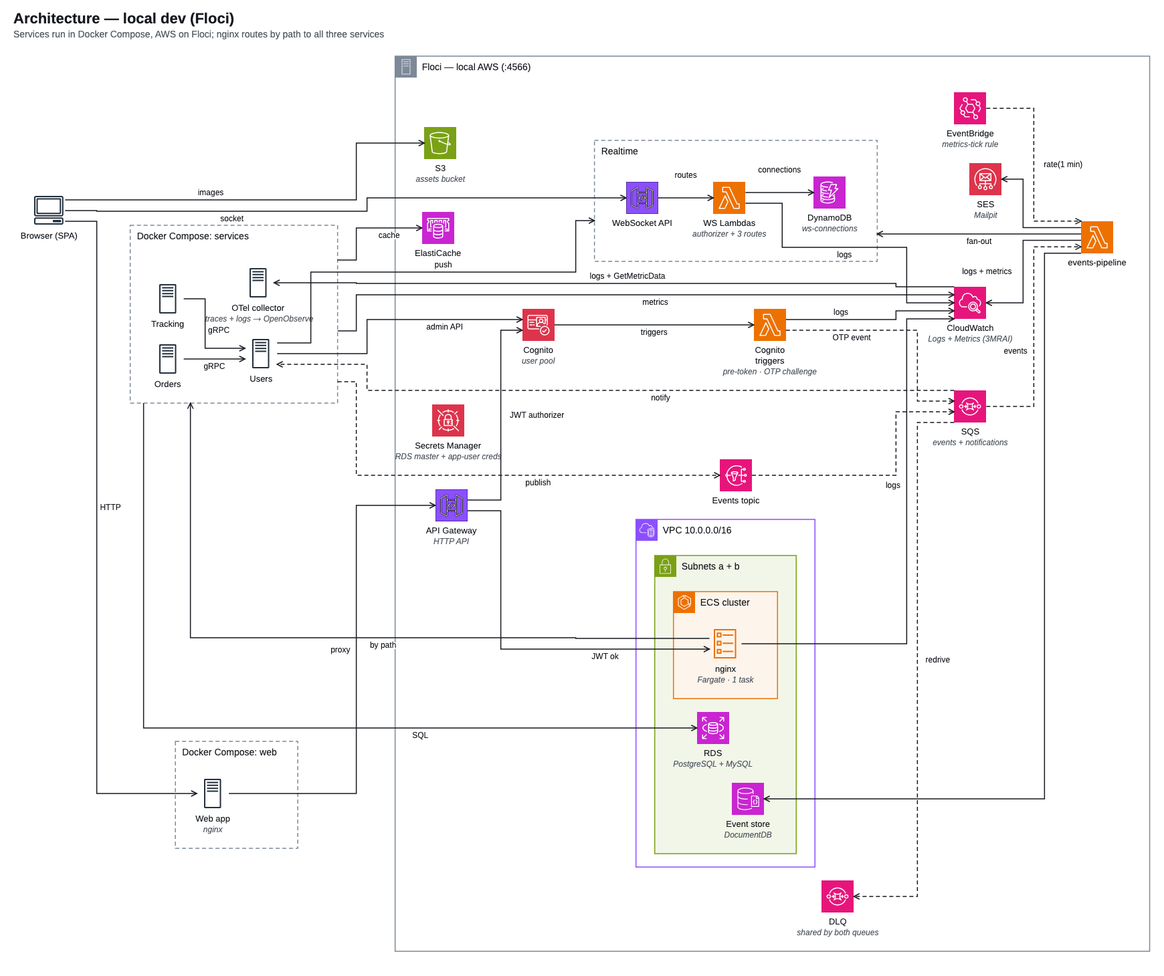
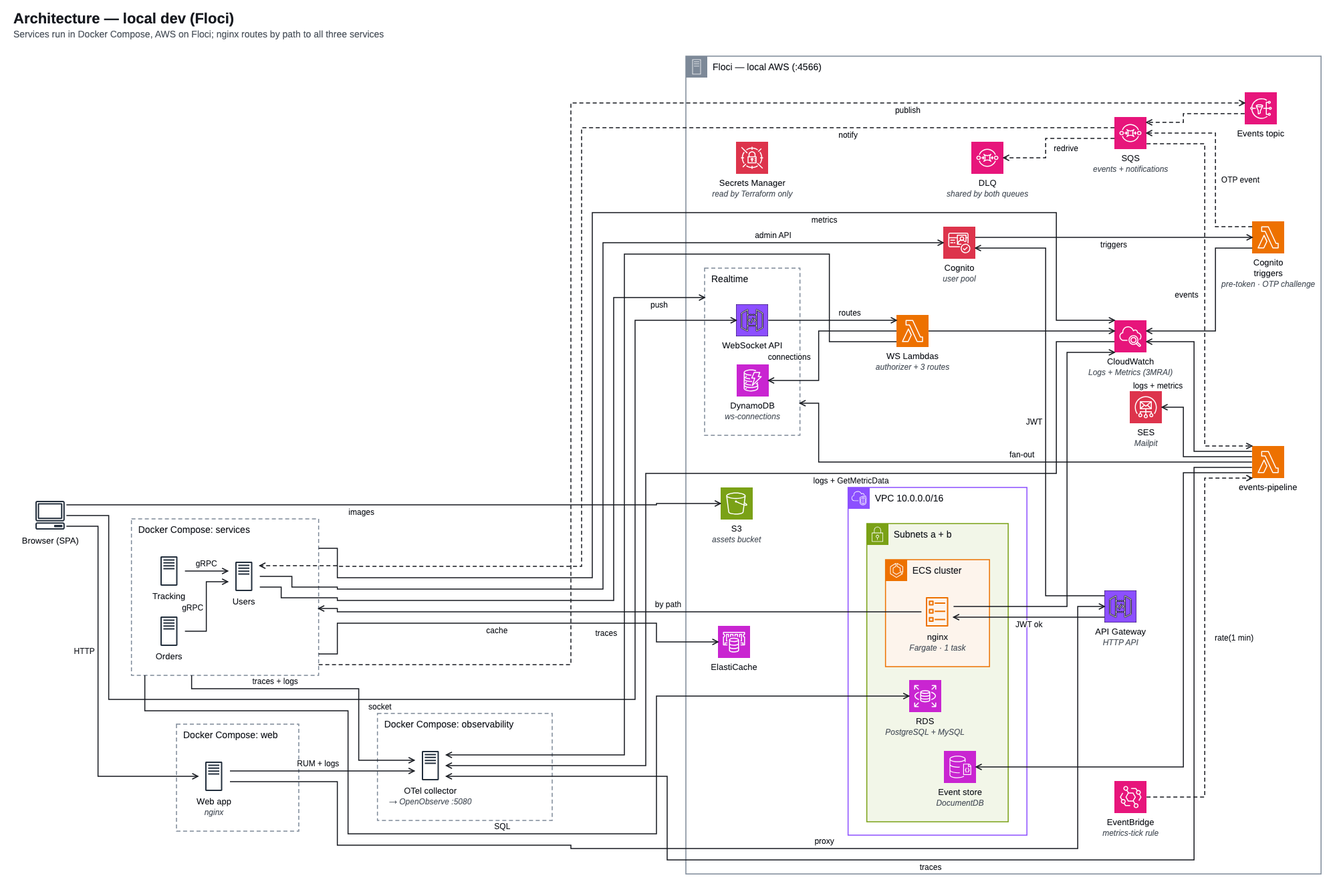
fix(diagrams): own observability group, Lambda and RUM trace edges, precise realtime targets

diff --git a/diagrams/src/data/system-context/l2.ts b/diagrams/src/data/system-context/l2.ts
@@ -22,79 +22,85 @@ export const systemContextL2: z.input<typeof AwsDiagramData> = {
     },
     { id: "cluster", kind: "ecs-cluster", label: "ECS cluster", parent: "vpc" },
     { id: "services", kind: "generic", label: "Services", parent: "cluster" },
+    { id: "realtime", kind: "generic", label: "Realtime", parent: "cloud" },
+    { id: "fns", kind: "generic", label: "Lambda functions", parent: "cloud" },
   ],
   nodes: [
     { id: "customer", label: "Customer", icon: "users" },
-    { id: "s3", label: "S3", sublabel: "assets bucket", icon: "s3", group: "cloud" },
-    { id: "ws", label: "WebSocket API", icon: "api-gateway", group: "cloud" },
     { id: "apigw", label: "API Gateway", sublabel: "HTTP API", icon: "api-gateway", group: "cloud" },
-    { id: "cognito", label: "Cognito", sublabel: "user pool", icon: "cognito", group: "cloud" },
-    { id: "cognito-fns", label: "Cognito triggers", sublabel: "pre-token + OTP", icon: "lambda", group: "cloud" },
-    { id: "ecr", label: "ECR", sublabel: "7 images", icon: "ecr", group: "cloud" },
-    { id: "config", label: "SSM + Secrets Manager", sublabel: "task config", icon: "ssm", group: "cloud" },
-    { id: "alb", label: "ALB", sublabel: "internal", icon: "alb", group: "vpc" },
-    { id: "web", label: "Web app", sublabel: "Angular", icon: "ecs-task", group: "cluster" },
-    { id: "otel", label: "otel-collector", sublabel: "telemetry", icon: "ecs-task", group: "cluster" },
-    { id: "o2", label: "OpenObserve", sublabel: "logs + traces", icon: "ecs-task", group: "cluster" },
-    { id: "mailpit", label: "Mailpit", sublabel: "SMTP sink", icon: "ecs-task", group: "cluster" },
-    { id: "orders", label: "Orders", sublabel: ".NET", icon: "ecs-task", group: "services" },
-    { id: "tracking", label: "Tracking", sublabel: "Go", icon: "ecs-task", group: "services" },
-    { id: "users", label: "Users", sublabel: "Node.js", icon: "ecs-task", group: "services" },
-    { id: "pg", label: "Users DB", sublabel: "RDS Postgres", icon: "rds", group: "vpc" },
-    { id: "mysql", label: "Orders + Tracking DB", sublabel: "RDS MySQL", icon: "rds", group: "vpc" },
-    { id: "docdb", label: "Event store", sublabel: "DocumentDB", icon: "documentdb", group: "vpc" },
-    { id: "redis", label: "ElastiCache", icon: "elasticache", group: "cloud" },
-    { id: "ws-fns", label: "WS Lambdas", sublabel: "4 functions", icon: "lambda", group: "cloud" },
-    { id: "dynamodb", label: "DynamoDB", sublabel: "ws-connections", icon: "dynamodb", group: "cloud" },
-    { id: "ses", label: "SES", icon: "ses", group: "cloud" },
+    { id: "dynamodb", label: "DynamoDB", sublabel: "ws-connections", icon: "dynamodb", group: "realtime" },
     { id: "dlq", label: "DLQ", sublabel: "both queues", icon: "sqs", group: "cloud" },
-    { id: "eb", label: "EventBridge", sublabel: "metrics tick", icon: "eventbridge", group: "cloud" },
+    { id: "web", label: "Web app", sublabel: "Angular", icon: "ecs-task", group: "cluster" },
     { id: "sns", label: "Events topic", icon: "sns", group: "cloud" },
+    { id: "o2", label: "OpenObserve", sublabel: "logs + traces", icon: "ecs-task", group: "cluster" },
+    { id: "ws", label: "WebSocket API", icon: "api-gateway", group: "realtime" },
+    { id: "cognito", label: "Cognito", sublabel: "user pool", icon: "cognito", group: "cloud" },
+    { id: "s3", label: "S3", sublabel: "assets bucket", icon: "s3", group: "cloud" },
+    { id: "orders", label: "Orders", sublabel: ".NET", icon: "ecs-task", group: "services" },
+    { id: "redis", label: "ElastiCache", icon: "elasticache", group: "cloud" },
+    { id: "tracking", label: "Tracking", sublabel: "Go", icon: "ecs-task", group: "services" },
+    { id: "docdb", label: "Event store", sublabel: "DocumentDB", icon: "documentdb", group: "vpc" },
     { id: "sqs", label: "SQS", sublabel: "events + notif", icon: "sqs", group: "cloud" },
+    { id: "alb", label: "ALB", sublabel: "internal", icon: "alb", group: "vpc" },
+    { id: "ws-fns", label: "WS Lambdas", sublabel: "4 functions", icon: "lambda", group: "fns" },
+    { id: "otel", label: "otel-collector", sublabel: "telemetry", icon: "ecs-task", group: "cluster" },
+    { id: "lambda", label: "events-pipeline", icon: "lambda", group: "fns" },
     { id: "cw", label: "CloudWatch", sublabel: "Logs + Metrics", icon: "cloudwatch", group: "cloud" },
-    { id: "lambda", label: "events-pipeline", icon: "lambda", group: "cloud" },
+    { id: "ses", label: "SES", icon: "ses", group: "cloud" },
+    { id: "cognito-fns", label: "Cognito triggers", sublabel: "pre-token + OTP", icon: "lambda", group: "fns" },
+    { id: "pg", label: "Users DB", sublabel: "RDS Postgres", icon: "rds", group: "vpc" },
+    { id: "config", label: "SSM + Secrets Manager", sublabel: "task config", icon: "ssm", group: "cloud" },
+    { id: "ecr", label: "ECR", sublabel: "7 images", icon: "ecr", group: "cloud" },
+    { id: "eb", label: "EventBridge", sublabel: "metrics tick", icon: "eventbridge", group: "cloud" },
+    { id: "mailpit", label: "Mailpit", sublabel: "SMTP sink", icon: "ecs-task", group: "cluster" },
+    { id: "users", label: "Users", sublabel: "Node.js", icon: "ecs-task", group: "services" },
+    { id: "mysql", label: "Orders + Tracking DB", sublabel: "RDS MySQL", icon: "rds", group: "vpc" },
   ],
   edges: [
-    { id: "customer-s3", from: "customer", to: "s3", label: "images" },
-    { id: "sqs-lambda", from: "sqs", to: "lambda", label: "events", async: true },
+    { id: "users-cognito", from: "users", to: "cognito", label: "admin API" },
     { id: "ws-fns-dynamodb", from: "ws-fns", to: "dynamodb", label: "connections" },
     { id: "users-pg", from: "users", to: "pg" },
-    { id: "fns-cw", from: "cognito-fns", to: "cw", label: "logs" },
+    // WHY: Terraform gives the Cognito triggers no log group and no logs permission (modules/cognito);
+    // their logs land only because Floci auto-creates log groups.
+    { id: "fns-cw", from: "fns", to: "cw", label: "logs + pipeline metrics" },
     { id: "customer-alb", from: "customer", to: "alb", label: "SPA" },
-    { id: "ws-fns", from: "ws", to: "ws-fns", label: "routes" },
     { id: "lambda-ses", from: "lambda", to: "ses" },
-    { id: "lambda-ws", from: "lambda", to: "ws", label: "fan-out" },
+    { id: "config-cluster", from: "config", to: "cluster", label: "task config" },
+    { id: "sqs-lambda", from: "sqs", to: "lambda", label: "events", async: true },
+    { id: "lambda-realtime", from: "lambda", to: "realtime", label: "fan-out" },
+    { id: "web-otel", from: "web", to: "otel", label: "RUM :4319" },
     { id: "tracking-users", from: "tracking", to: "users", label: "gRPC" },
-    { id: "services-otel", from: "services", to: "otel", label: "traces" },
-    { id: "ecr-cluster", from: "ecr", to: "cluster", label: "images" },
-    { id: "lambda-cw", from: "lambda", to: "cw", label: "logs + metrics" },
     { id: "orders-mysql", from: "orders", to: "mysql" },
-    { id: "lambda-docdb", from: "lambda", to: "docdb" },
     { id: "customer-ws", from: "customer", to: "ws", label: "socket" },
     { id: "otel-o2", from: "otel", to: "o2" },
-    { id: "services-redis", from: "services", to: "redis", label: "cache" },
-    { id: "ws-fns-cw", from: "ws-fns", to: "cw", label: "logs" },
-    { id: "users-ws", from: "users", to: "ws", label: "push" },
+    { id: "services-redis", from: "services", to: "redis" },
+    // WHY: realtime is exactly the WebSocket API and the connections table: Users and the pipeline query
+    // the table and post to @connections; neither invokes the WS Lambdas.
+    { id: "users-realtime", from: "users", to: "realtime", label: "push" },
     { id: "apigw-cognito", from: "apigw", to: "cognito", label: "JWT authorizer" },
-    { id: "users-dynamodb", from: "users", to: "dynamodb", label: "connections" },
     { id: "alb-cluster", from: "alb", to: "cluster", label: "listener per service" },
-    { id: "customer-apigw", from: "customer", to: "apigw", label: "/v1 via web" },
-    { id: "sqs-users", from: "sqs", to: "users", label: "notify", async: true },
     { id: "ses-mailpit", from: "ses", to: "mailpit", label: "SMTP" },
-    { id: "services-sns", from: "services", to: "sns", label: "publish", async: true },
-    { id: "config-cluster", from: "config", to: "cluster", label: "task config" },
-    { id: "apigw-alb", from: "apigw", to: "alb", label: "routes" },
-    { id: "eb-lambda", from: "eb", to: "lambda", label: "rate(1 min)", async: true },
-    { id: "users-cognito", from: "users", to: "cognito", label: "admin API" },
-    { id: "sqs-dlq", from: "sqs", to: "dlq", label: "redrive", async: true },
+    { id: "services-sns", from: "services", to: "sns", async: true },
+    { id: "lambda-docdb", from: "lambda", to: "docdb" },
+    { id: "ws-fns-otel", from: "ws-fns", to: "otel", label: "traces" },
     { id: "sns-sqs", from: "sns", to: "sqs", async: true },
     // WHY: every container logs through the awslogs driver; the services also PutMetricData.
     { id: "cluster-cw", from: "cluster", to: "cw", label: "logs + metrics" },
+    { id: "customer-s3", from: "customer", to: "s3", label: "images" },
+    { id: "apigw-alb", from: "apigw", to: "alb", label: "routes" },
+    { id: "ws-fns", from: "ws", to: "ws-fns", label: "routes" },
+    { id: "lambda-otel", from: "lambda", to: "otel", label: "traces" },
     { id: "cognito-fns", from: "cognito", to: "cognito-fns", label: "triggers" },
+    { id: "sqs-dlq", from: "sqs", to: "dlq", label: "redrive", async: true },
     { id: "fns-sqs", from: "cognito-fns", to: "sqs", label: "OTP event", async: true },
+    { id: "sqs-users", from: "sqs", to: "users", label: "notify", async: true },
     { id: "tracking-mysql", from: "tracking", to: "mysql" },
     { id: "cw-otel", from: "cw", to: "otel", label: "logs + GetMetricData" },
+    { id: "eb-lambda", from: "eb", to: "lambda", label: "rate(1 min)", async: true },
+    { id: "services-otel", from: "services", to: "otel", label: "traces" },
+    { id: "customer-apigw", from: "customer", to: "apigw", label: "/v1 via web" },
     { id: "orders-users", from: "orders", to: "users", label: "gRPC" },
+    { id: "ecr-cluster", from: "ecr", to: "cluster", label: "images" },
   ],
   steps: [],
 };

diff --git a/diagrams/src/data/architecture/dev-floci.ts b/diagrams/src/data/architecture/dev-floci.ts
@@ -5,8 +5,8 @@ import type { AwsDiagramData } from "../../aws/schema";
 // instances in the sublabel. Only what Terraform attaches to module.networking's subnets sits in the
 // subnet (the nginx ECS task, RDS, DocDB); ElastiCache has no subnet group locally, Lambda no
 // vpc_config. Tooling-plane resources (tf state bucket, lock and execution-log tables) are drawn in
-// the terraform-two-phase-apply flow, not here. Sources: infra/environments/local/{main.tf,post},
-// infra/modules/**, docker-compose.yml, observability/otel-collector-config.yaml.
+// the terraform-two-phase-apply flow, not here. Sources: infra/environments/local/{main.tf,post,
+// scripts/generate_env_files.py}, infra/modules/**, docker-compose.yml, observability/otel-collector-config.yaml.
 export const architectureDevFloci: z.input<typeof AwsDiagramData> = {
   title: "Architecture — local dev (Floci)",
   subtitle: "Services run in Docker Compose, AWS on Floci; nginx routes by path to all three services",
@@ -15,6 +15,7 @@ export const architectureDevFloci: z.input<typeof AwsDiagramData> = {
   groups: [
     { id: "compose-web", kind: "generic", label: "Docker Compose: web" },
     { id: "compose", kind: "generic", label: "Docker Compose: services" },
+    { id: "compose-obs", kind: "generic", label: "Docker Compose: observability" },
     { id: "floci", kind: "local-floci", label: "Floci — local AWS (:4566)" },
     { id: "vpc", kind: "vpc", label: "VPC 10.0.0.0/16", parent: "floci" },
     { id: "subnets", kind: "public-subnet", label: "Subnets a + b", parent: "vpc" },
@@ -24,65 +25,71 @@ export const architectureDevFloci: z.input<typeof AwsDiagramData> = {
   nodes: [
     { id: "browser", label: "Browser (SPA)", icon: "client" },
     { id: "web", label: "Web app", sublabel: "nginx", icon: "server", group: "compose-web" },
-    { id: "s3", label: "S3", sublabel: "assets bucket", icon: "s3", group: "floci" },
-    { id: "apigw", label: "API Gateway", sublabel: "HTTP API", icon: "api-gateway", group: "floci" },
-    { id: "cognito", label: "Cognito", sublabel: "user pool", icon: "cognito", group: "floci" },
-    { id: "cognito-fns", label: "Cognito triggers", sublabel: "pre-token · OTP challenge", icon: "lambda", group: "floci" },
-    { id: "nginx", label: "nginx", sublabel: "Fargate · 1 task", icon: "ecs-task", group: "cluster" },
-    { id: "orders", label: "Orders", icon: "server", group: "compose" },
-    { id: "tracking", label: "Tracking", icon: "server", group: "compose" },
-    { id: "otel", label: "OTel collector", sublabel: "traces + logs → OpenObserve", icon: "server", group: "compose" },
-    { id: "users", label: "Users", icon: "server", group: "compose" },
-    { id: "rds", label: "RDS", sublabel: "PostgreSQL + MySQL", icon: "rds", group: "subnets" },
-    { id: "docdb", label: "Event store", sublabel: "DocumentDB", icon: "documentdb", group: "subnets" },
-    { id: "sm", label: "Secrets Manager", sublabel: "RDS master + app-user creds", icon: "secrets-manager", group: "floci" },
-    { id: "redis", label: "ElastiCache", icon: "elasticache", group: "floci" },
-    { id: "ws", label: "WebSocket API", icon: "api-gateway", group: "realtime" },
-    { id: "ws-fns", label: "WS Lambdas", sublabel: "authorizer + 3 routes", icon: "lambda", group: "realtime" },
-    { id: "dynamodb", label: "DynamoDB", sublabel: "ws-connections", icon: "dynamodb", group: "realtime" },
-    { id: "ses", label: "SES", sublabel: "Mailpit", icon: "ses", group: "floci" },
-    { id: "dlq", label: "DLQ", sublabel: "shared by both queues", icon: "sqs", group: "floci" },
     { id: "eb", label: "EventBridge", sublabel: "metrics-tick rule", icon: "eventbridge", group: "floci" },
-    { id: "sns", label: "Events topic", icon: "sns", group: "floci" },
+    { id: "orders", label: "Orders", icon: "server", group: "compose" },
+    { id: "ses", label: "SES", sublabel: "Mailpit", icon: "ses", group: "floci" },
+    { id: "nginx", label: "nginx", sublabel: "Fargate · 1 task", icon: "ecs-task", group: "cluster" },
+    { id: "dlq", label: "DLQ", sublabel: "shared by both queues", icon: "sqs", group: "floci" },
+    { id: "cognito", label: "Cognito", sublabel: "user pool", icon: "cognito", group: "floci" },
+    { id: "dynamodb", label: "DynamoDB", sublabel: "ws-connections", icon: "dynamodb", group: "realtime" },
+    { id: "tracking", label: "Tracking", icon: "server", group: "compose" },
+    { id: "sm", label: "Secrets Manager", sublabel: "read by Terraform only", icon: "secrets-manager", group: "floci" },
+    { id: "s3", label: "S3", sublabel: "assets bucket", icon: "s3", group: "floci" },
+    { id: "users", label: "Users", icon: "server", group: "compose" },
     { id: "sqs", label: "SQS", sublabel: "events + notifications", icon: "sqs", group: "floci" },
+    { id: "docdb", label: "Event store", sublabel: "DocumentDB", icon: "documentdb", group: "subnets" },
+    { id: "otel", label: "OTel collector", sublabel: "→ OpenObserve :5080", icon: "server", group: "compose-obs" },
+    { id: "redis", label: "ElastiCache", icon: "elasticache", group: "floci" },
+    { id: "rds", label: "RDS", sublabel: "PostgreSQL + MySQL", icon: "rds", group: "subnets" },
+    { id: "apigw", label: "API Gateway", sublabel: "HTTP API", icon: "api-gateway", group: "floci" },
+    { id: "ws", label: "WebSocket API", icon: "api-gateway", group: "realtime" },
+    { id: "ws-fns", label: "WS Lambdas", sublabel: "authorizer + 3 routes", icon: "lambda", group: "floci" },
     { id: "cw", label: "CloudWatch", sublabel: "Logs + Metrics (3MRAI)", icon: "cloudwatch", group: "floci" },
+    { id: "cognito-fns", label: "Cognito triggers", sublabel: "pre-token · OTP challenge", icon: "lambda", group: "floci" },
+    { id: "sns", label: "Events topic", icon: "sns", group: "floci" },
     { id: "lambda", label: "events-pipeline", icon: "lambda", group: "floci" },
   ],
   edges: [
-    { id: "ws-fns-dynamodb", from: "ws-fns", to: "dynamodb", label: "connections" },
     { id: "ws-fns", from: "ws", to: "ws-fns", label: "routes" },
-    // WHY: Users reads the connections table and posts to @connections (src/shared/realtime/).
+    // WHY: Users and the pipeline query the connections table and post to @connections; neither
+    // invokes the WS Lambdas (services/users/src/shared/realtime/).
     { id: "users-realtime", from: "users", to: "realtime", label: "push" },
-    { id: "sns-sqs", from: "sns", to: "sqs", async: true },
     { id: "sqs-dlq", from: "sqs", to: "dlq", label: "redrive", async: true },
-    { id: "fns-sqs", from: "cognito-fns", to: "sqs", label: "OTP event", async: true },
-    { id: "apigw-cognito", from: "apigw", to: "cognito", label: "JWT authorizer" },
+    { id: "sns-sqs", from: "sns", to: "sqs", async: true },
+    { id: "nginx-compose", from: "nginx", to: "compose", label: "by path" },
     { id: "browser-s3", from: "browser", to: "s3", label: "images" },
     { id: "sqs-users", from: "sqs", to: "users", label: "notify", async: true },
     { id: "browser-web", from: "browser", to: "web", label: "HTTP" },
-    { id: "compose-cw", from: "compose", to: "cw", label: "metrics" },
-    { id: "nginx-cw", from: "nginx", to: "cw", label: "logs" },
+    { id: "nginx-cw", from: "nginx", to: "cw" },
     { id: "browser-ws", from: "browser", to: "ws", label: "socket" },
-    { id: "eb-lambda", from: "eb", to: "lambda", label: "rate(1 min)", async: true },
-    { id: "compose-sns", from: "compose", to: "sns", label: "publish", async: true },
     { id: "lambda-ses", from: "lambda", to: "ses" },
+    { id: "compose-rds", from: "compose", to: "rds", label: "SQL" },
     { id: "lambda-cw", from: "lambda", to: "cw", label: "logs + metrics" },
     { id: "cognito-fns", from: "cognito", to: "cognito-fns", label: "triggers" },
+    { id: "compose-cw", from: "compose", to: "cw", label: "metrics" },
     { id: "users-cognito", from: "users", to: "cognito", label: "admin API" },
-    // WHY: the pipeline reads the same connections table, then posts to @connections.
     { id: "lambda-realtime", from: "lambda", to: "realtime", label: "fan-out" },
+    { id: "ws-fns-dynamodb", from: "ws-fns", to: "dynamodb", label: "connections" },
+    { id: "fns-sqs", from: "cognito-fns", to: "sqs", label: "OTP event", async: true },
+    { id: "compose-otel", from: "compose", to: "otel", label: "traces + logs" },
     { id: "sqs-lambda", from: "sqs", to: "lambda", label: "events", async: true },
-    { id: "fns-cw", from: "cognito-fns", to: "cw", label: "logs" },
+    // WHY: Terraform gives the Cognito triggers no log group and no logs permission (modules/cognito);
+    // their logs land only because Floci auto-creates log groups.
+    { id: "fns-cw", from: "cognito-fns", to: "cw" },
     { id: "compose-redis", from: "compose", to: "redis", label: "cache" },
     { id: "lambda-docdb", from: "lambda", to: "docdb" },
     { id: "apigw-nginx", from: "apigw", to: "nginx", label: "JWT ok" },
-    { id: "ws-fns-cw", from: "ws-fns", to: "cw", label: "logs" },
-    { id: "compose-rds", from: "compose", to: "rds", label: "SQL" },
-    { id: "cw-otel", from: "cw", to: "otel", label: "logs + GetMetricData" },
-    { id: "nginx-compose", from: "nginx", to: "compose", label: "by path" },
+    { id: "ws-fns-cw", from: "ws-fns", to: "cw" },
     { id: "web-apigw", from: "web", to: "apigw", label: "proxy" },
     { id: "tracking-users", from: "tracking", to: "users", label: "gRPC" },
     { id: "orders-users", from: "orders", to: "users", label: "gRPC" },
+    { id: "eb-lambda", from: "eb", to: "lambda", label: "rate(1 min)", async: true },
+    { id: "web-otel", from: "web", to: "otel", label: "RUM + logs" },
+    { id: "lambda-otel", from: "lambda", to: "otel", label: "traces" },
+    { id: "cw-otel", from: "cw", to: "otel", label: "logs + GetMetricData" },
+    { id: "compose-sns", from: "compose", to: "sns", label: "publish", async: true },
+    { id: "ws-fns-otel", from: "ws-fns", to: "otel", label: "traces" },
+    { id: "apigw-cognito", from: "apigw", to: "cognito", label: "JWT" },
   ],
   steps: [],
 };

diff --git a/diagrams/src/data/architecture/preprod.ts b/diagrams/src/data/architecture/preprod.ts
@@ -22,77 +22,83 @@ export const architecturePreprod: z.input<typeof AwsDiagramData> = {
     },
     { id: "cluster", kind: "ecs-cluster", label: "ECS cluster · 1 task per service", parent: "vpc" },
     { id: "backend", kind: "generic", label: "Backend services · gRPC to users", parent: "cluster" },
+    { id: "realtime", kind: "generic", label: "Realtime", parent: "cloud" },
+    { id: "fns", kind: "generic", label: "Lambda functions", parent: "cloud" },
   ],
   nodes: [
     { id: "browser", label: "Browser (SPA)", icon: "client" },
-    { id: "s3", label: "S3", sublabel: "assets bucket", icon: "s3", group: "cloud" },
-    { id: "ws", label: "WebSocket API", icon: "api-gateway", group: "cloud" },
     { id: "apigw", label: "API Gateway", sublabel: "HTTP API", icon: "api-gateway", group: "cloud" },
-    { id: "cognito", label: "Cognito", sublabel: "user pool", icon: "cognito", group: "cloud" },
-    { id: "cognito-fns", label: "Cognito triggers", sublabel: "pre-token + OTP", icon: "lambda", group: "cloud" },
-    { id: "ecr", label: "ECR", sublabel: "7 images", icon: "ecr", group: "cloud" },
-    { id: "config", label: "SSM + Secrets Manager", sublabel: "params · secrets · RDS creds", icon: "ssm", group: "cloud" },
-    { id: "alb", label: "ALB", sublabel: "internal", icon: "alb", group: "vpc" },
-    { id: "web", label: "web", sublabel: "Fargate", icon: "ecs-task", group: "cluster" },
-    { id: "otel", label: "otel-collector", sublabel: "Fargate", icon: "ecs-task", group: "cluster" },
-    { id: "o2", label: "openobserve", sublabel: "Fargate", icon: "ecs-task", group: "cluster" },
+    { id: "ws", label: "WebSocket API", icon: "api-gateway", group: "realtime" },
+    { id: "s3", label: "S3", sublabel: "assets bucket", icon: "s3", group: "cloud" },
+    { id: "sns", label: "Events topic", icon: "sns", group: "cloud" },
+    { id: "docdb", label: "Event store", sublabel: "DocumentDB", icon: "documentdb", group: "vpc" },
     { id: "mailpit", label: "mailpit", sublabel: "Fargate", icon: "ecs-task", group: "cluster" },
+    { id: "web", label: "web", sublabel: "Fargate", icon: "ecs-task", group: "cluster" },
+    { id: "redis", label: "ElastiCache", icon: "elasticache", group: "cloud" },
+    { id: "lambda", label: "events-pipeline", icon: "lambda", group: "fns" },
+    { id: "cw", label: "CloudWatch", sublabel: "Logs + Metrics", icon: "cloudwatch", group: "cloud" },
+    { id: "alb", label: "ALB", sublabel: "internal", icon: "alb", group: "vpc" },
+    { id: "dynamodb", label: "DynamoDB", sublabel: "ws-connections", icon: "dynamodb", group: "realtime" },
+    { id: "sqs", label: "SQS", sublabel: "events + notif", icon: "sqs", group: "cloud" },
     { id: "orders", label: "orders", sublabel: "Fargate", icon: "ecs-task", group: "backend" },
+    { id: "eb", label: "EventBridge", sublabel: "metrics tick", icon: "eventbridge", group: "cloud" },
+    { id: "o2", label: "openobserve", sublabel: "Fargate", icon: "ecs-task", group: "cluster" },
     { id: "tracking", label: "tracking", sublabel: "Fargate", icon: "ecs-task", group: "backend" },
     { id: "users", label: "users", sublabel: "Fargate", icon: "ecs-task", group: "backend" },
+    { id: "cognito", label: "Cognito", sublabel: "user pool", icon: "cognito", group: "cloud" },
     { id: "rds", label: "RDS", sublabel: "Postgres + MySQL", icon: "rds", group: "vpc" },
-    { id: "docdb", label: "Event store", sublabel: "DocumentDB", icon: "documentdb", group: "vpc" },
-    { id: "redis", label: "ElastiCache", icon: "elasticache", group: "cloud" },
-    { id: "ws-fns", label: "WS Lambdas", sublabel: "4 functions", icon: "lambda", group: "cloud" },
-    { id: "dynamodb", label: "DynamoDB", sublabel: "ws-connections", icon: "dynamodb", group: "cloud" },
-    { id: "ses", label: "SES", icon: "ses", group: "cloud" },
+    { id: "ws-fns", label: "WS Lambdas", sublabel: "4 functions", icon: "lambda", group: "fns" },
+    { id: "ecr", label: "ECR", sublabel: "7 images", icon: "ecr", group: "cloud" },
+    { id: "config", label: "SSM + Secrets Manager", sublabel: "params · secrets · RDS creds", icon: "ssm", group: "cloud" },
+    { id: "cognito-fns", label: "Cognito triggers", sublabel: "pre-token + OTP", icon: "lambda", group: "fns" },
     { id: "dlq", label: "DLQ", sublabel: "both queues", icon: "sqs", group: "cloud" },
-    { id: "eb", label: "EventBridge", sublabel: "metrics tick", icon: "eventbridge", group: "cloud" },
-    { id: "sns", label: "Events topic", icon: "sns", group: "cloud" },
-    { id: "sqs", label: "SQS", sublabel: "events + notif", icon: "sqs", group: "cloud" },
-    { id: "cw", label: "CloudWatch", sublabel: "Logs + Metrics", icon: "cloudwatch", group: "cloud" },
-    { id: "lambda", label: "events-pipeline", icon: "lambda", group: "cloud" },
+    { id: "otel", label: "otel-collector", sublabel: "Fargate", icon: "ecs-task", group: "cluster" },
+    { id: "ses", label: "SES", icon: "ses", group: "cloud" },
   ],
   edges: [
     { id: "browser-alb", from: "browser", to: "alb", label: "SPA :9090" },
-    { id: "users-ws", from: "users", to: "ws", label: "push" },
+    { id: "lambda-ses", from: "lambda", to: "ses" },
+    { id: "ecr-cluster", from: "ecr", to: "cluster", label: "images" },
+    // WHY: realtime is exactly the WebSocket API and the connections table: Users and the pipeline query
+    // the table and post to @connections; neither invokes the WS Lambdas.
+    { id: "users-realtime", from: "users", to: "realtime", label: "push" },
     { id: "orders-users", from: "orders", to: "users" },
     { id: "eb-lambda", from: "eb", to: "lambda", label: "rate(1 min)", async: true },
-    { id: "sqs-lambda", from: "sqs", to: "lambda", label: "events", async: true },
     { id: "users-cognito", from: "users", to: "cognito", label: "admin API" },
     { id: "tracking-users", from: "tracking", to: "users" },
+    { id: "config-cluster", from: "config", to: "cluster", label: "task config" },
     { id: "lambda-docdb", from: "lambda", to: "docdb" },
     { id: "ws-fns", from: "ws", to: "ws-fns", label: "routes" },
     // WHY: every one of the seven ECS services has its own listener and target group (modules/ecs-service).
     { id: "alb-cluster", from: "alb", to: "cluster", label: "listener per service" },
-    { id: "ws-fns-cw", from: "ws-fns", to: "cw", label: "logs" },
     { id: "otel-o2", from: "otel", to: "o2" },
-    { id: "ecr-cluster", from: "ecr", to: "cluster", label: "images" },
-    { id: "lambda-ses", from: "lambda", to: "ses" },
+    { id: "sqs-dlq", from: "sqs", to: "dlq", label: "redrive", async: true },
     { id: "backend-otel", from: "backend", to: "otel", label: "traces" },
     { id: "browser-s3", from: "browser", to: "s3", label: "images" },
     { id: "cognito-fns", from: "cognito", to: "cognito-fns", label: "triggers" },
     { id: "fns-sqs", from: "cognito-fns", to: "sqs", label: "OTP event", async: true },
     { id: "browser-ws", from: "browser", to: "ws", label: "socket" },
+    { id: "sqs-lambda", from: "sqs", to: "lambda", label: "events", async: true },
     // WHY: every task logs through the awslogs driver; the backend tasks also PutMetricData.
     { id: "cluster-cw", from: "cluster", to: "cw", label: "logs + metrics" },
     { id: "sns-sqs", from: "sns", to: "sqs", async: true },
     { id: "apigw-cognito", from: "apigw", to: "cognito", label: "JWT authorizer" },
-    { id: "backend-sns", from: "backend", to: "sns", label: "publish", async: true },
+    { id: "backend-sns", from: "backend", to: "sns", async: true },
     { id: "backend-rds", from: "backend", to: "rds", label: "SQL" },
-    { id: "lambda-cw", from: "lambda", to: "cw", label: "logs + metrics" },
-    { id: "users-dynamodb", from: "users", to: "dynamodb" },
     { id: "browser-apigw", from: "browser", to: "apigw", label: "/v1 via web" },
     { id: "cw-otel", from: "cw", to: "otel", label: "logs + GetMetricData" },
-    { id: "config-cluster", from: "config", to: "cluster", label: "task config" },
     { id: "apigw-alb", from: "apigw", to: "alb", label: "routes" },
-    { id: "sqs-dlq", from: "sqs", to: "dlq", label: "redrive", async: true },
     { id: "sqs-users", from: "sqs", to: "users", label: "notify", async: true },
     { id: "ws-fns-dynamodb", from: "ws-fns", to: "dynamodb", label: "connections" },
     { id: "ses-mailpit", from: "ses", to: "mailpit", label: "SMTP" },
-    { id: "fns-cw", from: "cognito-fns", to: "cw", label: "logs" },
-    { id: "backend-redis", from: "backend", to: "redis", label: "cache" },
-    { id: "lambda-ws", from: "lambda", to: "ws", label: "fan-out" },
+    { id: "backend-redis", from: "backend", to: "redis" },
+    { id: "lambda-realtime", from: "lambda", to: "realtime", label: "fan-out" },
+    // WHY: Terraform gives the Cognito triggers no log group and no logs permission (modules/cognito);
+    // their logs land only because Floci auto-creates log groups.
+    { id: "fns-cw", from: "fns", to: "cw", label: "logs + pipeline metrics" },
+    { id: "lambda-otel", from: "lambda", to: "otel", label: "traces" },
+    { id: "ws-fns-otel", from: "ws-fns", to: "otel", label: "traces" },
+    { id: "web-otel", from: "web", to: "otel", label: "RUM :4319" },
   ],
   steps: [],
 };
